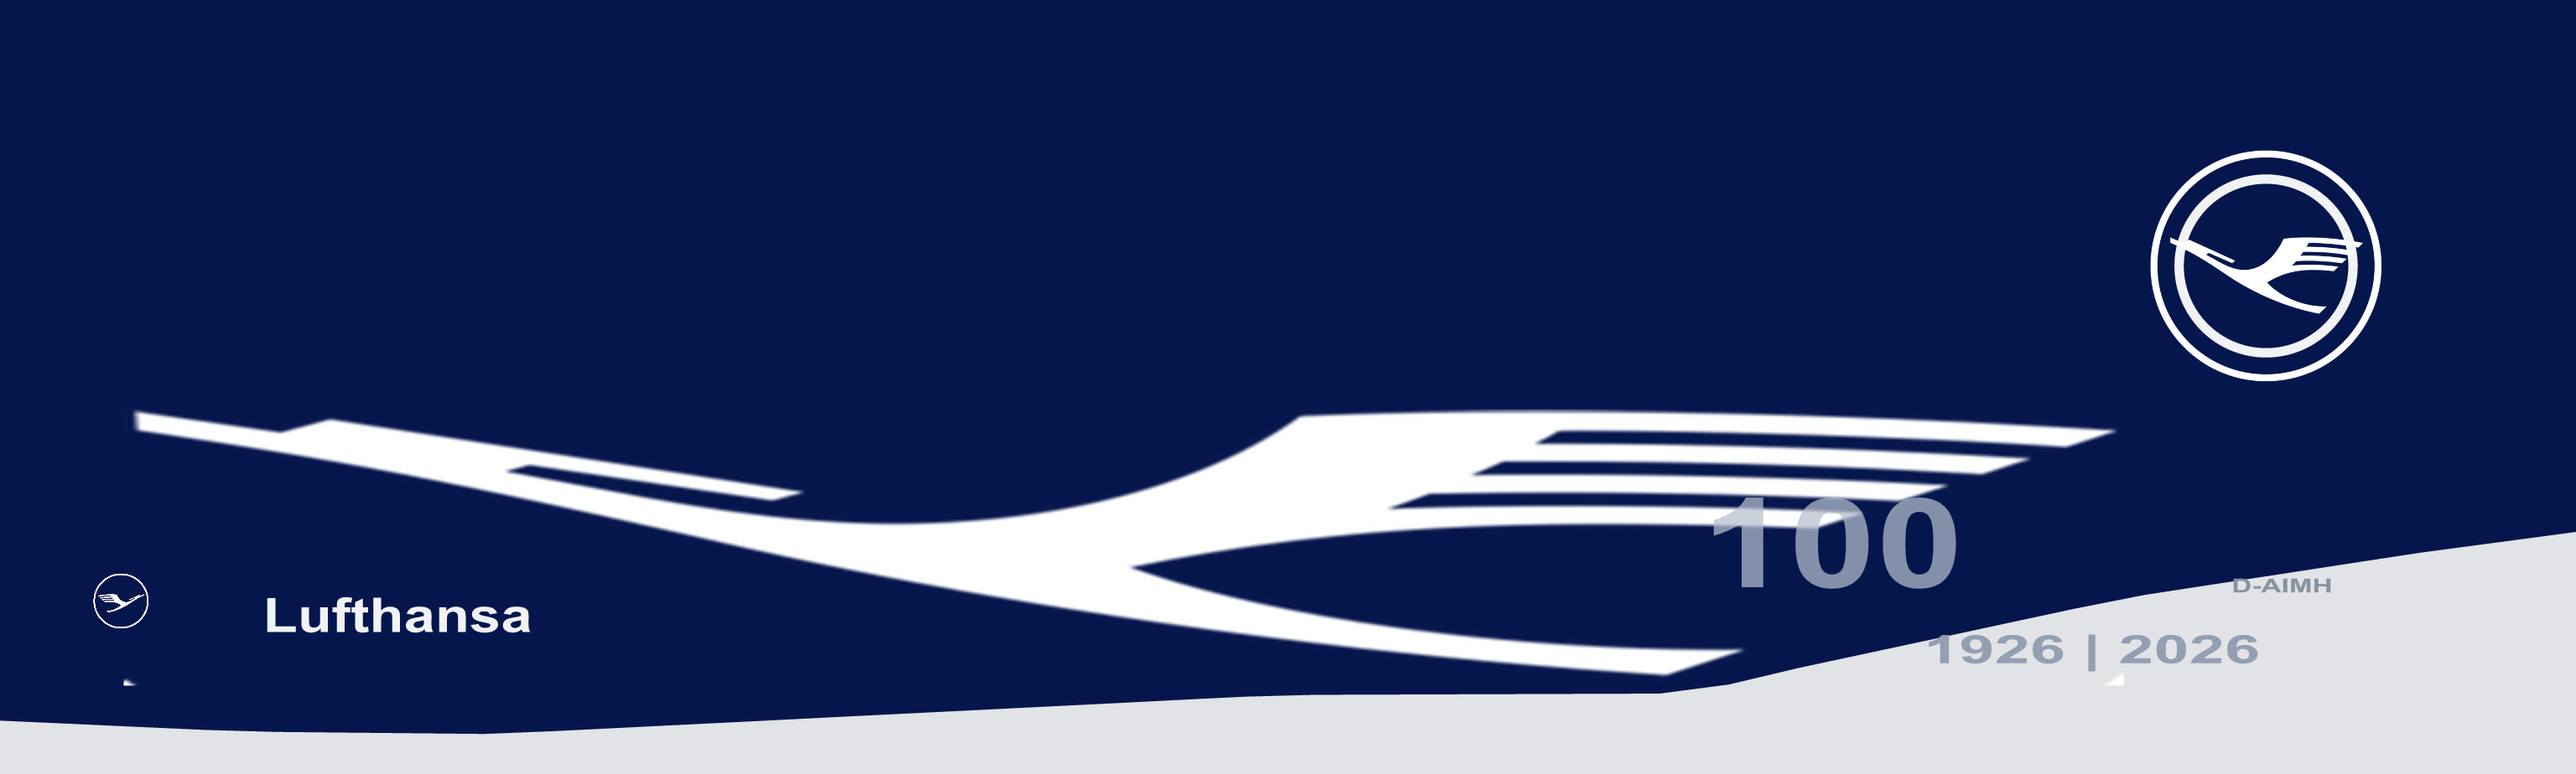
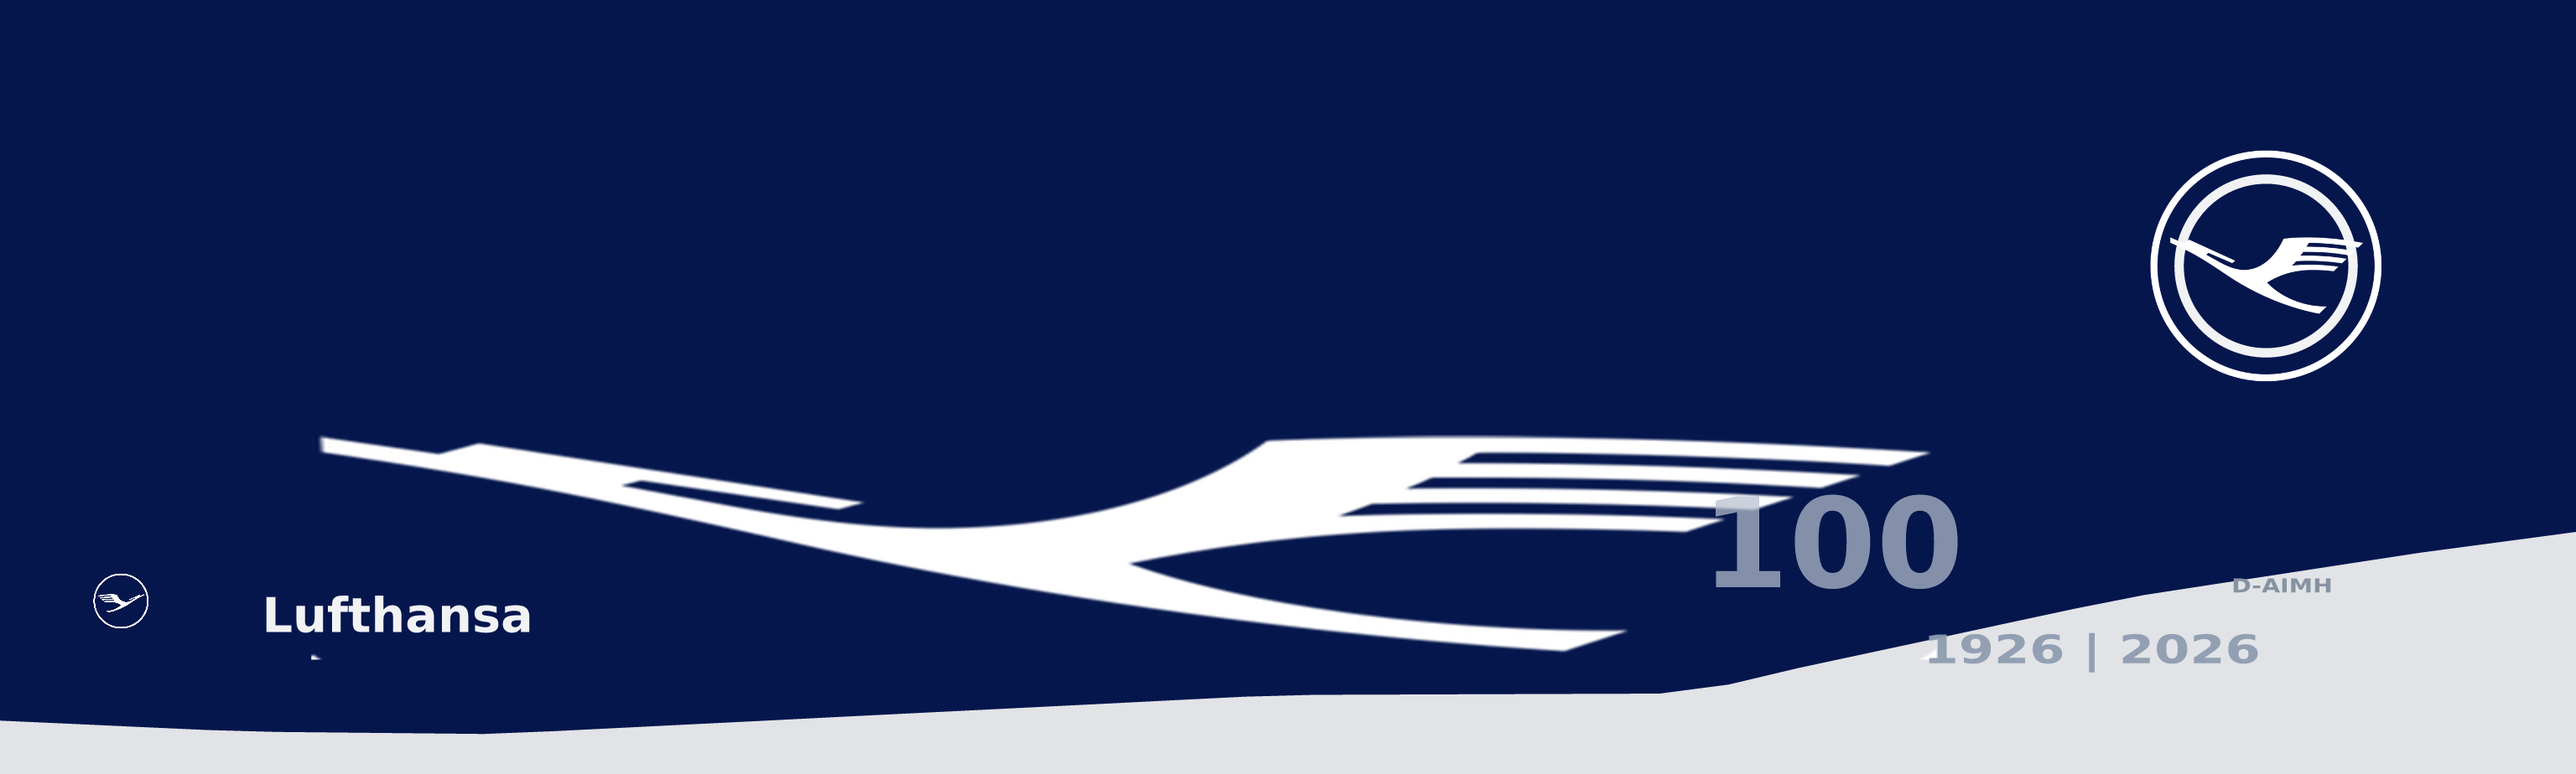
fix: align Lufthansa A380 centenary livery with D-AIMH
Replace the teaser-era native atlas with generated side artwork based on the revealed aircraft, scale the crane to Lufthansa's published 47 m length, and update the cache version and regression coverage.

Agent: Pi coding agent

Model: gpt-6-luna

diff --git a/src/a380-liveries.js b/src/a380-liveries.js
@@ -4,22 +4,10 @@
 const WHITE='#f4f5f6';
 const style=(o={})=>({stabilizer:WHITE,nacelle:WHITE,winglet:WHITE,freight:false,...o});
 
-// Liveries that ship the paint shop's own A380X UV atlas instead of the
-// side-projected artwork. Keys are model material names, values are files in
-// assets/a380-liveries/native/. D-AIMH's centenary scheme is the first: the
-// 47 m crane, the 1926 | 2026 dates and the door stencils are all part of the
-// real texture, so nothing has to be redrawn by hand.
-// Source: FlyByWire A380X "Lufthansa 100 Year Anniversary D-AIMH" livery by
-// steffieth (flightsim.to addon 101026), freeware, used with attribution.
-export const A380_NATIVE={
- DLH100:{
-  A380X_FUSE1:'DLH100-FUSE1.webp',
-  A380X_FUSE2:'DLH100-FUSE2.webp',
-  A380X_FUSE3:'DLH100-FUSE3.webp',
-  A380X_FUSE4:'DLH100-FUSE4.webp',
-  A380X_FUSE5:'DLH100-FUSE5.webp',
- },
-};
+// Native A380X UV atlases are opt-in only after their texture layout has been
+// verified against these exact GLBs. DLH100 uses measured side projections
+// rather than the older teaser-era repaint atlas (which predates the real reveal).
+export const A380_NATIVE={};
 
 export const A380_STYLE={
  BOE:style({winglet:'#14307a'}),

diff --git a/src/reality-a380.js b/src/reality-a380.js
@@ -9,7 +9,7 @@ export const A380_REALITY={
  CEA:{status:'none',note:'东航没有购买过 A380，真机无此涂装；此处是东航现行涂装的兼容适配。'},
  CHH:{status:'none',note:'海航没有购买过 A380，真机无此涂装；此处是海航红色垂尾涂装的兼容适配。'},
  KLM:{status:'none',note:'荷航没有运营过 A380，真机无此涂装；此处是荷航蓝白涂装的兼容适配。'},
- DLH100:{status:'real',note:'汉莎 A380 D-AIMH 百年特别涂装：深蓝机身、47 米大型鹤标、“100”及“1926 | 2026”。'},
+ DLH100:{status:'real',note:'汉莎 A380 D-AIMH 百年特别涂装：深蓝机身、长约 47 米的鹤标、“100”及“1926 | 2026”。'},
  AF1_CLASSIC:{status:'none',note:'空军一号只有波音 747（VC-25），真机无 A380 版本；此处是兼容适配。'},
  AF1_2026:{status:'none',note:'空军一号只有波音 747（VC-25），真机无 A380 版本；此处是兼容适配。'},
  fedex:{status:'none',note:'联邦快递取消了 A380F 订单，真机无此涂装；此处是货机风格的假想适配（窗户封闭）。'},

diff --git a/src/a380-paint.js b/src/a380-paint.js
@@ -10,7 +10,7 @@ import {A380_NATIVE} from './a380-liveries.js';
 export const A380_ATLAS={x0:-37.5,x1:37.0,y0:-9.8,y1:12.6};
 const ROOT='/747/assets/a380-liveries/';
 // Bump when generated atlases change: the server gives /assets/* a 24-hour browser cache.
-export const A380_ATLAS_VERSION='20261104-6';
+export const A380_ATLAS_VERSION='20261104-7';
 const FIN_BASE_Y=-1.4;
 
 const BODY_MATERIAL=/^A380X_FUSE[1235]$/;
